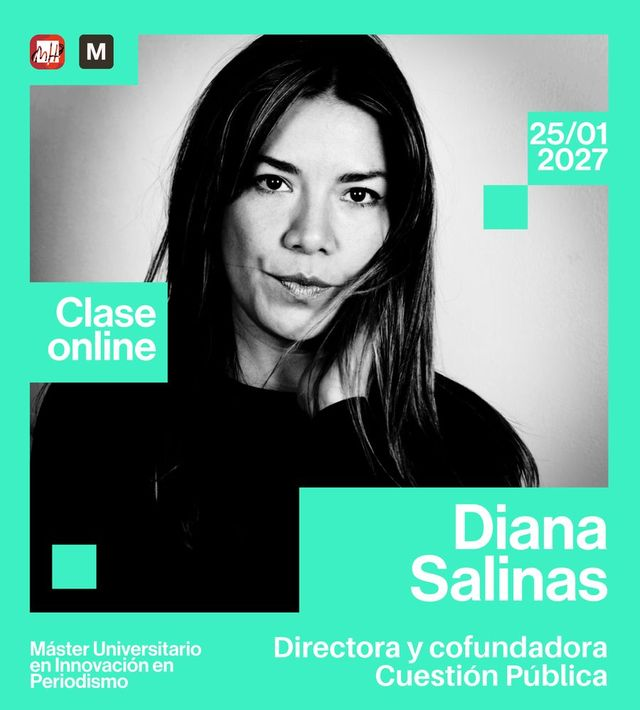
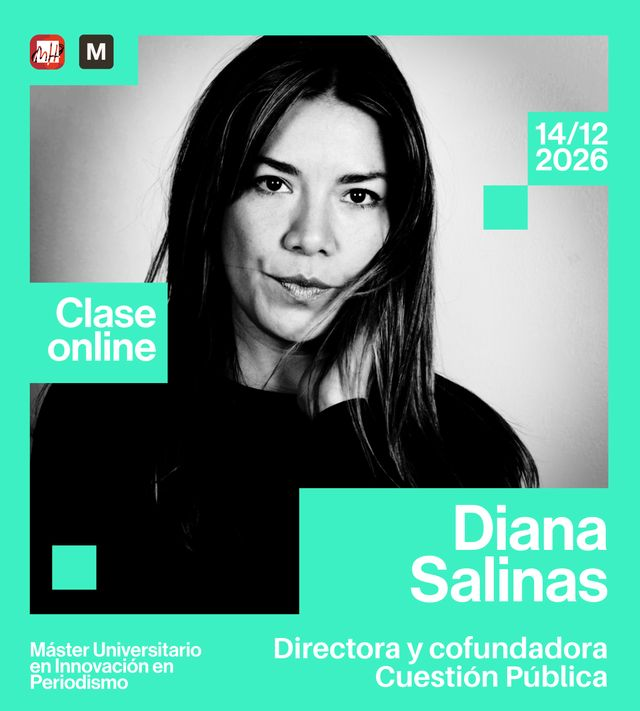
Carteles: nuevas versiones de José Luis Rojas (7/12) y Diana Salinas (14/12); orden por fecha

diff --git a/_includes/home/01c-carteles.html b/_includes/home/01c-carteles.html
@@ -9,7 +9,7 @@
       <a class="more-link" href="{{ site.baseurl }}/nos-visitan.html">Todos los ponentes</a>
     </div>
     <div class="carteles">
-    {%- assign lista = c.carteles | reverse -%}
+    {%- assign lista = c.carteles | sort: "fecha" | reverse -%}
     {%- for p in lista %}
     <figure class="cartel" data-fecha="{{ p.fecha }}">
       <img src="{{ site.baseurl }}/images/carteles/{{ p.imagen }}" width="640" height="710" loading="lazy" decoding="async"
